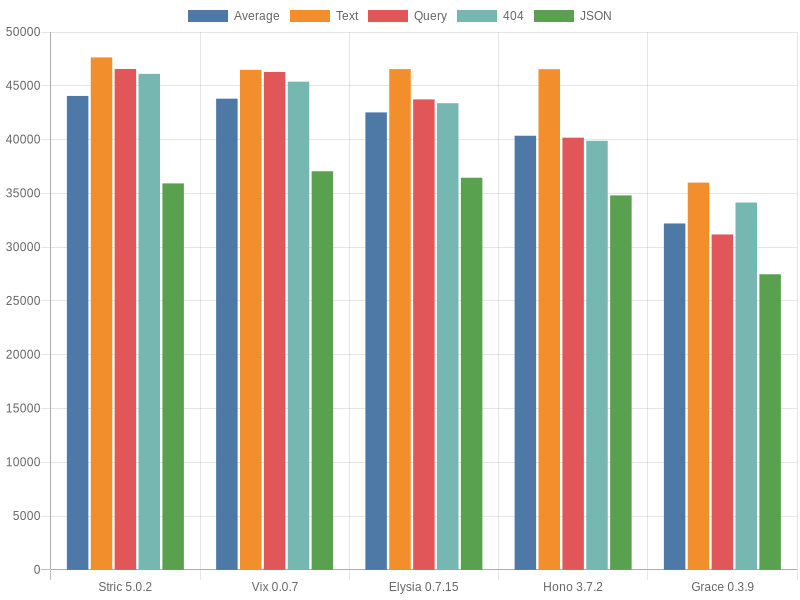
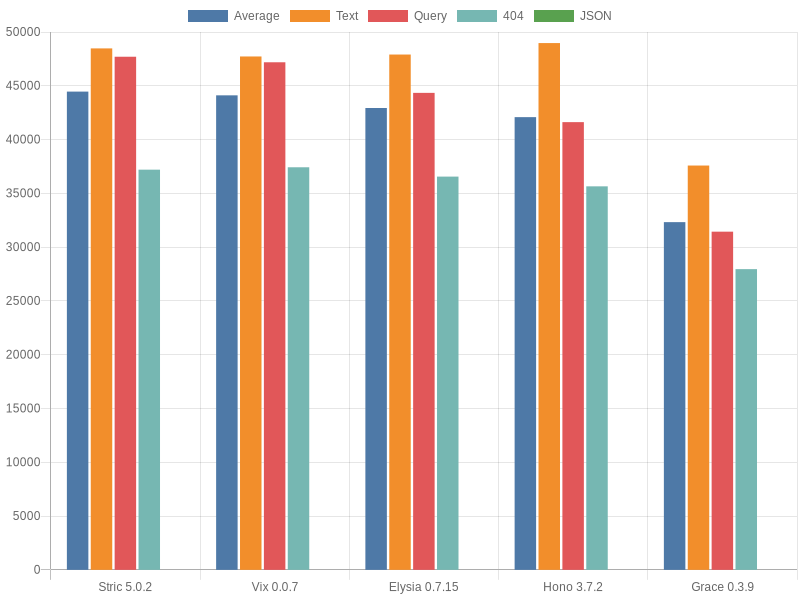
Update

diff --git a/config.ts b/config.ts
@@ -24,13 +24,6 @@ export default {
             description: 'Should return the `id` parameter value and the query value, for example `1 a` when the request path is `/id/1?name=a`.'
         },
         {
-            path: '/api/js',
-            expect: {
-                statusCode: 404
-            },
-            description: 'Should return a response with `404` status code.'
-        },
-        {
             path: '/api/json',
             method: 'POST',
             bodyFile: `${rootDir}/assets/body.json`,
@@ -38,7 +31,7 @@ export default {
                 'Content-Type': 'application/json'
             },
             expect: {
-                body: JSON.stringify(body),
+                body: JSON.stringify(body.nested),
                 headers: {
                     // Works for all the framework that tried to put a freaking space between ; and charset
                     'Content-Type': [

diff --git a/src/Stric/index.ts b/src/Stric/index.ts
@@ -1,12 +1,9 @@
-import { router, macro, wrap } from '@stricjs/router';
+import { router, macro } from '@stricjs/router';
 import { qs } from '@stricjs/utils';
 
-const parse = qs.searchKey('name'), json = wrap.json;
+const parse = qs.searchKey('name');
 
 export default router()
-    // Routes
     .get('/', macro('Hi'))
-    .post('/api/json', c => c.json().then(json))
-    .get('/id/:id', c => new Response(c.params.id + ' ' + parse(c)))
-    // Others
-    .use(404);
+    .post('/api/json', c => c.data.nested, { body: 'json', wrap: 'json' })
+    .get('/id/:id', c => c.params.id + ' ' + parse(c), { wrap: true });

diff --git a/src/Hono/index.ts b/src/Hono/index.ts
@@ -3,4 +3,6 @@ import { Hono } from 'hono';
 export default new Hono()
     .get('/', c => c.text('Hi'))
     .get('/id/:id', c => c.text(c.req.param('id') + ' ' + c.req.query('name')))
-    .post('/api/json', c => c.req.json().then(c.json))
+    .post('/api/json', c => c.req.json().then(
+        r => c.json(r.nested)
+    ));

diff --git a/src/Elysia/index.ts b/src/Elysia/index.ts
@@ -3,5 +3,5 @@ import Elysia from 'elysia';
 new Elysia()
     .get('/', () => 'Hi')
     .get('/id/:id', c => c.params.id + ' ' + c.query.name)
-    .post('/api/json', c => c.body, { type: 'json' })
+    .post('/api/json', c => (c.body as any).nested, { type: 'json' })
     .listen(3000);

diff --git a/src/Vix/index.ts b/src/Vix/index.ts
@@ -22,7 +22,7 @@ export default {
             headings: {
                 headers: '.json'
             },
-            f: async ctx => stringify(await ctx.req.json())
+            f: async ctx => stringify((await ctx.req.json()).nested)
         }
     ])
 }

diff --git a/src/Grace/index.ts b/src/Grace/index.ts
@@ -48,7 +48,8 @@ createGrace()
         handler: async c => {
             return {
                 code: 200,
-                body: c.body
+                // @ts-ignore
+                body: c.body.nested
             }
         },
     }))

diff --git a/results/index.md b/results/index.md
@@ -1,6 +1,6 @@
 Bun: 1.0.5
 
-Tested at: 08:10, October 12th, 2023
+Tested at: 08:39, October 12th, 2023
 
 ## OS Details
 - Cores: 8
@@ -11,10 +11,8 @@ Tested at: 08:10, October 12th, 2023
 ## Tests
 ### GET `/`
 Should return `Hi` as a response.
-### GET `/id/96?name=WIc`
+### GET `/id/94?name=si6`
 Should return the `id` parameter value and the query value, for example `1 a` when the request path is `/id/1?name=a`.
-### GET `/api/js`
-Should return a response with `404` status code.
 ### POST `/api/json`
 Return the request body with `Content-Type` set to `application/json`.
 ### Info
@@ -24,10 +22,10 @@ Return the request body with `Content-Type` set to `application/json`.
 - Results are measured in requests per second.
 
 ## Results
-| Name | Average | GET `/` | GET `/id/39?name=OCI` | GET `/api/js` | POST `/api/json` |
-|  :---: | :---: | :---: | :---: | :---: | :---: |
-| [Stric 5.0.2](/results/main/Stric) | 44058.77 | 47639.22 | 46560.05 | 46110.47 | 35925.36 |
-| [Vix 0.0.7](/results/main/Vix) | 43800.69 | 46480.79 | 46285.97 | 45384.30 | 37051.71 |
-| [Elysia 0.7.15](/results/main/Elysia) | 42528.34 | 46548.55 | 43732.66 | 43380.82 | 36451.32 |
-| [Hono 3.7.2](/results/main/Hono) | 40353.37 | 46542.88 | 40174.16 | 39887.75 | 34808.70 |
-| [Grace 0.3.9](/results/main/Grace) | 32200.16 | 36000.82 | 31178.33 | 34143.83 | 27477.65 |
+| Name | Average | GET `/` | GET `/id/57?name=qRO` | POST `/api/json` |
+|  :---: | :---: | :---: | :---: | :---: |
+| [Stric 5.0.2](/results/main/Stric) | 44458.99 | 48475.96 | 47698.11 | 37202.89 |
+| [Vix 0.0.7](/results/main/Vix) | 44113.28 | 47727.90 | 47187.85 | 37424.10 |
+| [Elysia 0.7.15](/results/main/Elysia) | 42934.45 | 47907.02 | 44338.93 | 36557.39 |
+| [Hono 3.7.2](/results/main/Hono) | 42084.39 | 48974.05 | 41623.86 | 35655.26 |
+| [Grace 0.3.9](/results/main/Grace) | 32324.44 | 37583.60 | 31437.24 | 27952.48 |

diff --git a/README.md b/README.md
@@ -47,10 +47,10 @@ See [configuration file](/config.ts) and the [type declarations](/lib/types.ts).
 ### Table 
 
 
-| Name | Average | GET `/` | GET `/id/39?name=OCI` | GET `/api/js` | POST `/api/json` |
-|  :---: | :---: | :---: | :---: | :---: | :---: |
-| [Stric 5.0.2](/results/main/Stric) | 44058.77 | 47639.22 | 46560.05 | 46110.47 | 35925.36 |
-| [Vix 0.0.7](/results/main/Vix) | 43800.69 | 46480.79 | 46285.97 | 45384.30 | 37051.71 |
-| [Elysia 0.7.15](/results/main/Elysia) | 42528.34 | 46548.55 | 43732.66 | 43380.82 | 36451.32 |
-| [Hono 3.7.2](/results/main/Hono) | 40353.37 | 46542.88 | 40174.16 | 39887.75 | 34808.70 |
-| [Grace 0.3.9](/results/main/Grace) | 32200.16 | 36000.82 | 31178.33 | 34143.83 | 27477.65 |
+| Name | Average | GET `/` | GET `/id/57?name=qRO` | POST `/api/json` |
+|  :---: | :---: | :---: | :---: | :---: |
+| [Stric 5.0.2](/results/main/Stric) | 44458.99 | 48475.96 | 47698.11 | 37202.89 |
+| [Vix 0.0.7](/results/main/Vix) | 44113.28 | 47727.90 | 47187.85 | 37424.10 |
+| [Elysia 0.7.15](/results/main/Elysia) | 42934.45 | 47907.02 | 44338.93 | 36557.39 |
+| [Hono 3.7.2](/results/main/Hono) | 42084.39 | 48974.05 | 41623.86 | 35655.26 |
+| [Grace 0.3.9](/results/main/Grace) | 32324.44 | 37583.60 | 31437.24 | 27952.48 |
